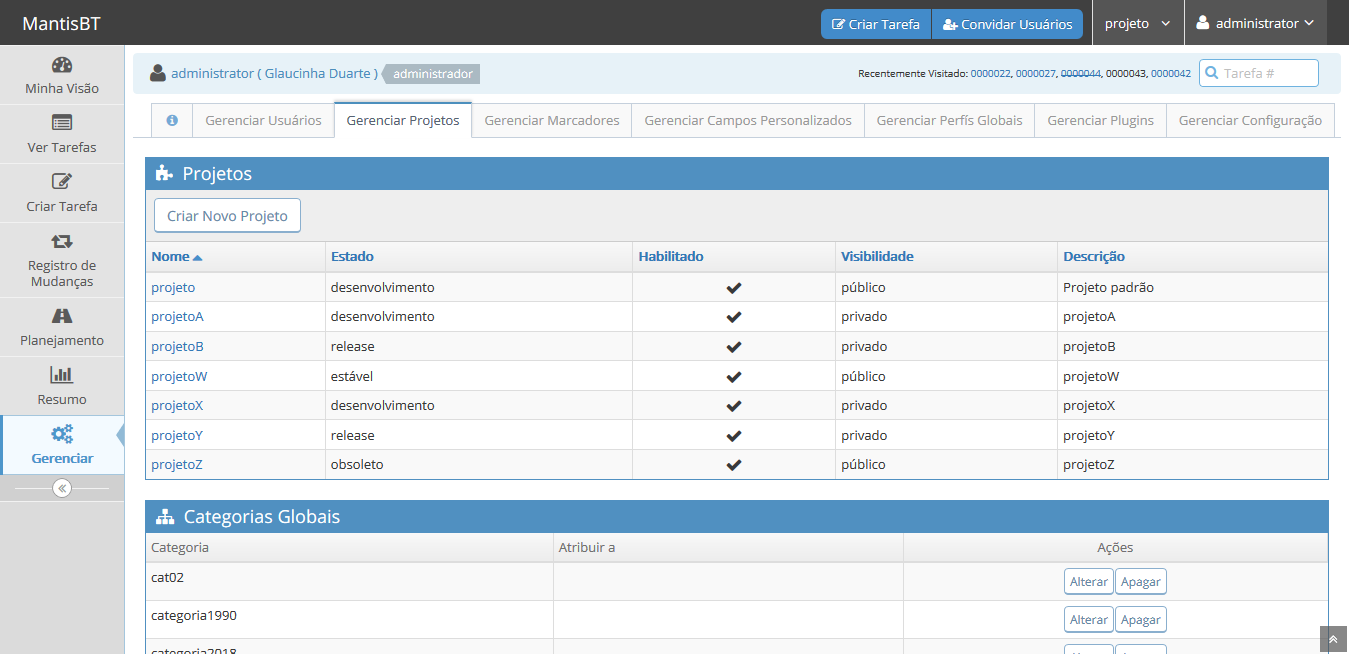
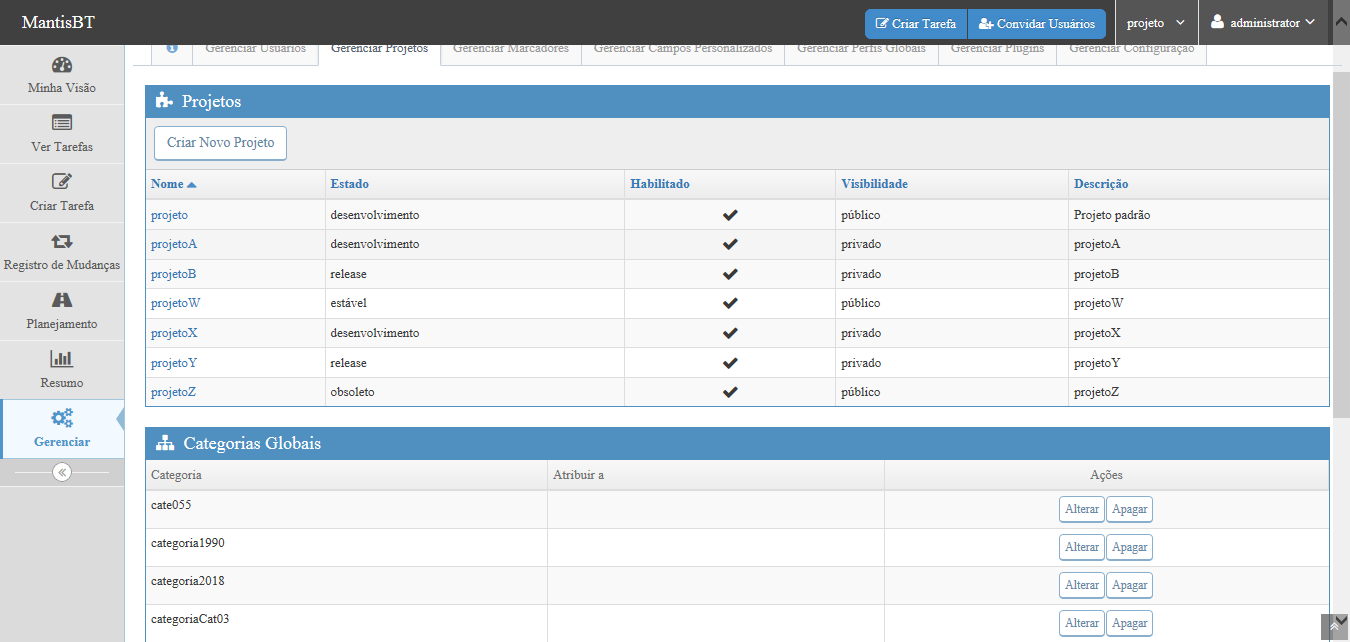
commit final

Changed region(s): [[0.0, 0.0, 1.0, 1.0], [0.9652, 0.9346, 1.0, 0.9969]]

diff --git a/features/step_definitions/cadastrar_projeto.rb b/features/step_definitions/cadastrar_projeto.rb
@@ -15,6 +15,6 @@ When("gerenciar projetos") do
     @projeto.addProjeto
   end
   
-  Then("será exibida mensagem {string}") do |string|
-    expect(page.has_text?('Operação realizada com sucesso.')).to eq true
+  Then("será exibida mensagem {string}") do |mensagem|
+    expect(page.has_text?(mensagem)).to eq true
    end

diff --git a/features/step_definitions/revogar_token_api.rb b/features/step_definitions/revogar_token_api.rb
@@ -11,5 +11,3 @@ Given("acessou a lista de tokens API") do
   Then("o sistema exibe uma mensagem informando que o token {string} foi revogado") do |nome_token|
     expect(page.has_text?('O Token API "' +nome_token+ '" foi revogado')). to eq true
   end
-
-  #O Token API "ddsfds" foi revogado.

diff --git a/features/support/hooks.rb b/features/support/hooks.rb
@@ -11,7 +11,7 @@ Before do
     @marcador = GerenciarMarcador.new
     @campo_personalizado = GerenciarCampoPersonalizado.new
     @token = TokenAPI.new
-    #page.current_window.resize_to(1200, 800)
+    page.current_window.resize_to(1366, 728)
     #definir resolução para o teste
 end
 

diff --git a/features/step_definitions/salvar_filtro_visualizacao_tarefas.rb b/features/step_definitions/salvar_filtro_visualizacao_tarefas.rb
@@ -24,7 +24,6 @@ Given("acessou a visualização de tarefas cadastradas") do
 
   When("salvar filtro") do
     @tarefa.salvarNomeFiltro
-    sleep(2)
   end 
   
   Then("o filtro criado {string} estará selecionado no campo de seleção do filtro") do |nome_filtro|

diff --git a/features/step_definitions/cadastrar_tarefa.rb b/features/step_definitions/cadastrar_tarefa.rb
@@ -9,3 +9,7 @@ When("acessar o menu de criar tarefas") do
   When("criar nova tarefa") do
     @tarefa.criarNovaTarefa
   end
+
+  Then("será informada a mensagem {string}") do |mensagem|
+    expect(page.has_text?(mensagem)).to eq true
+   end
